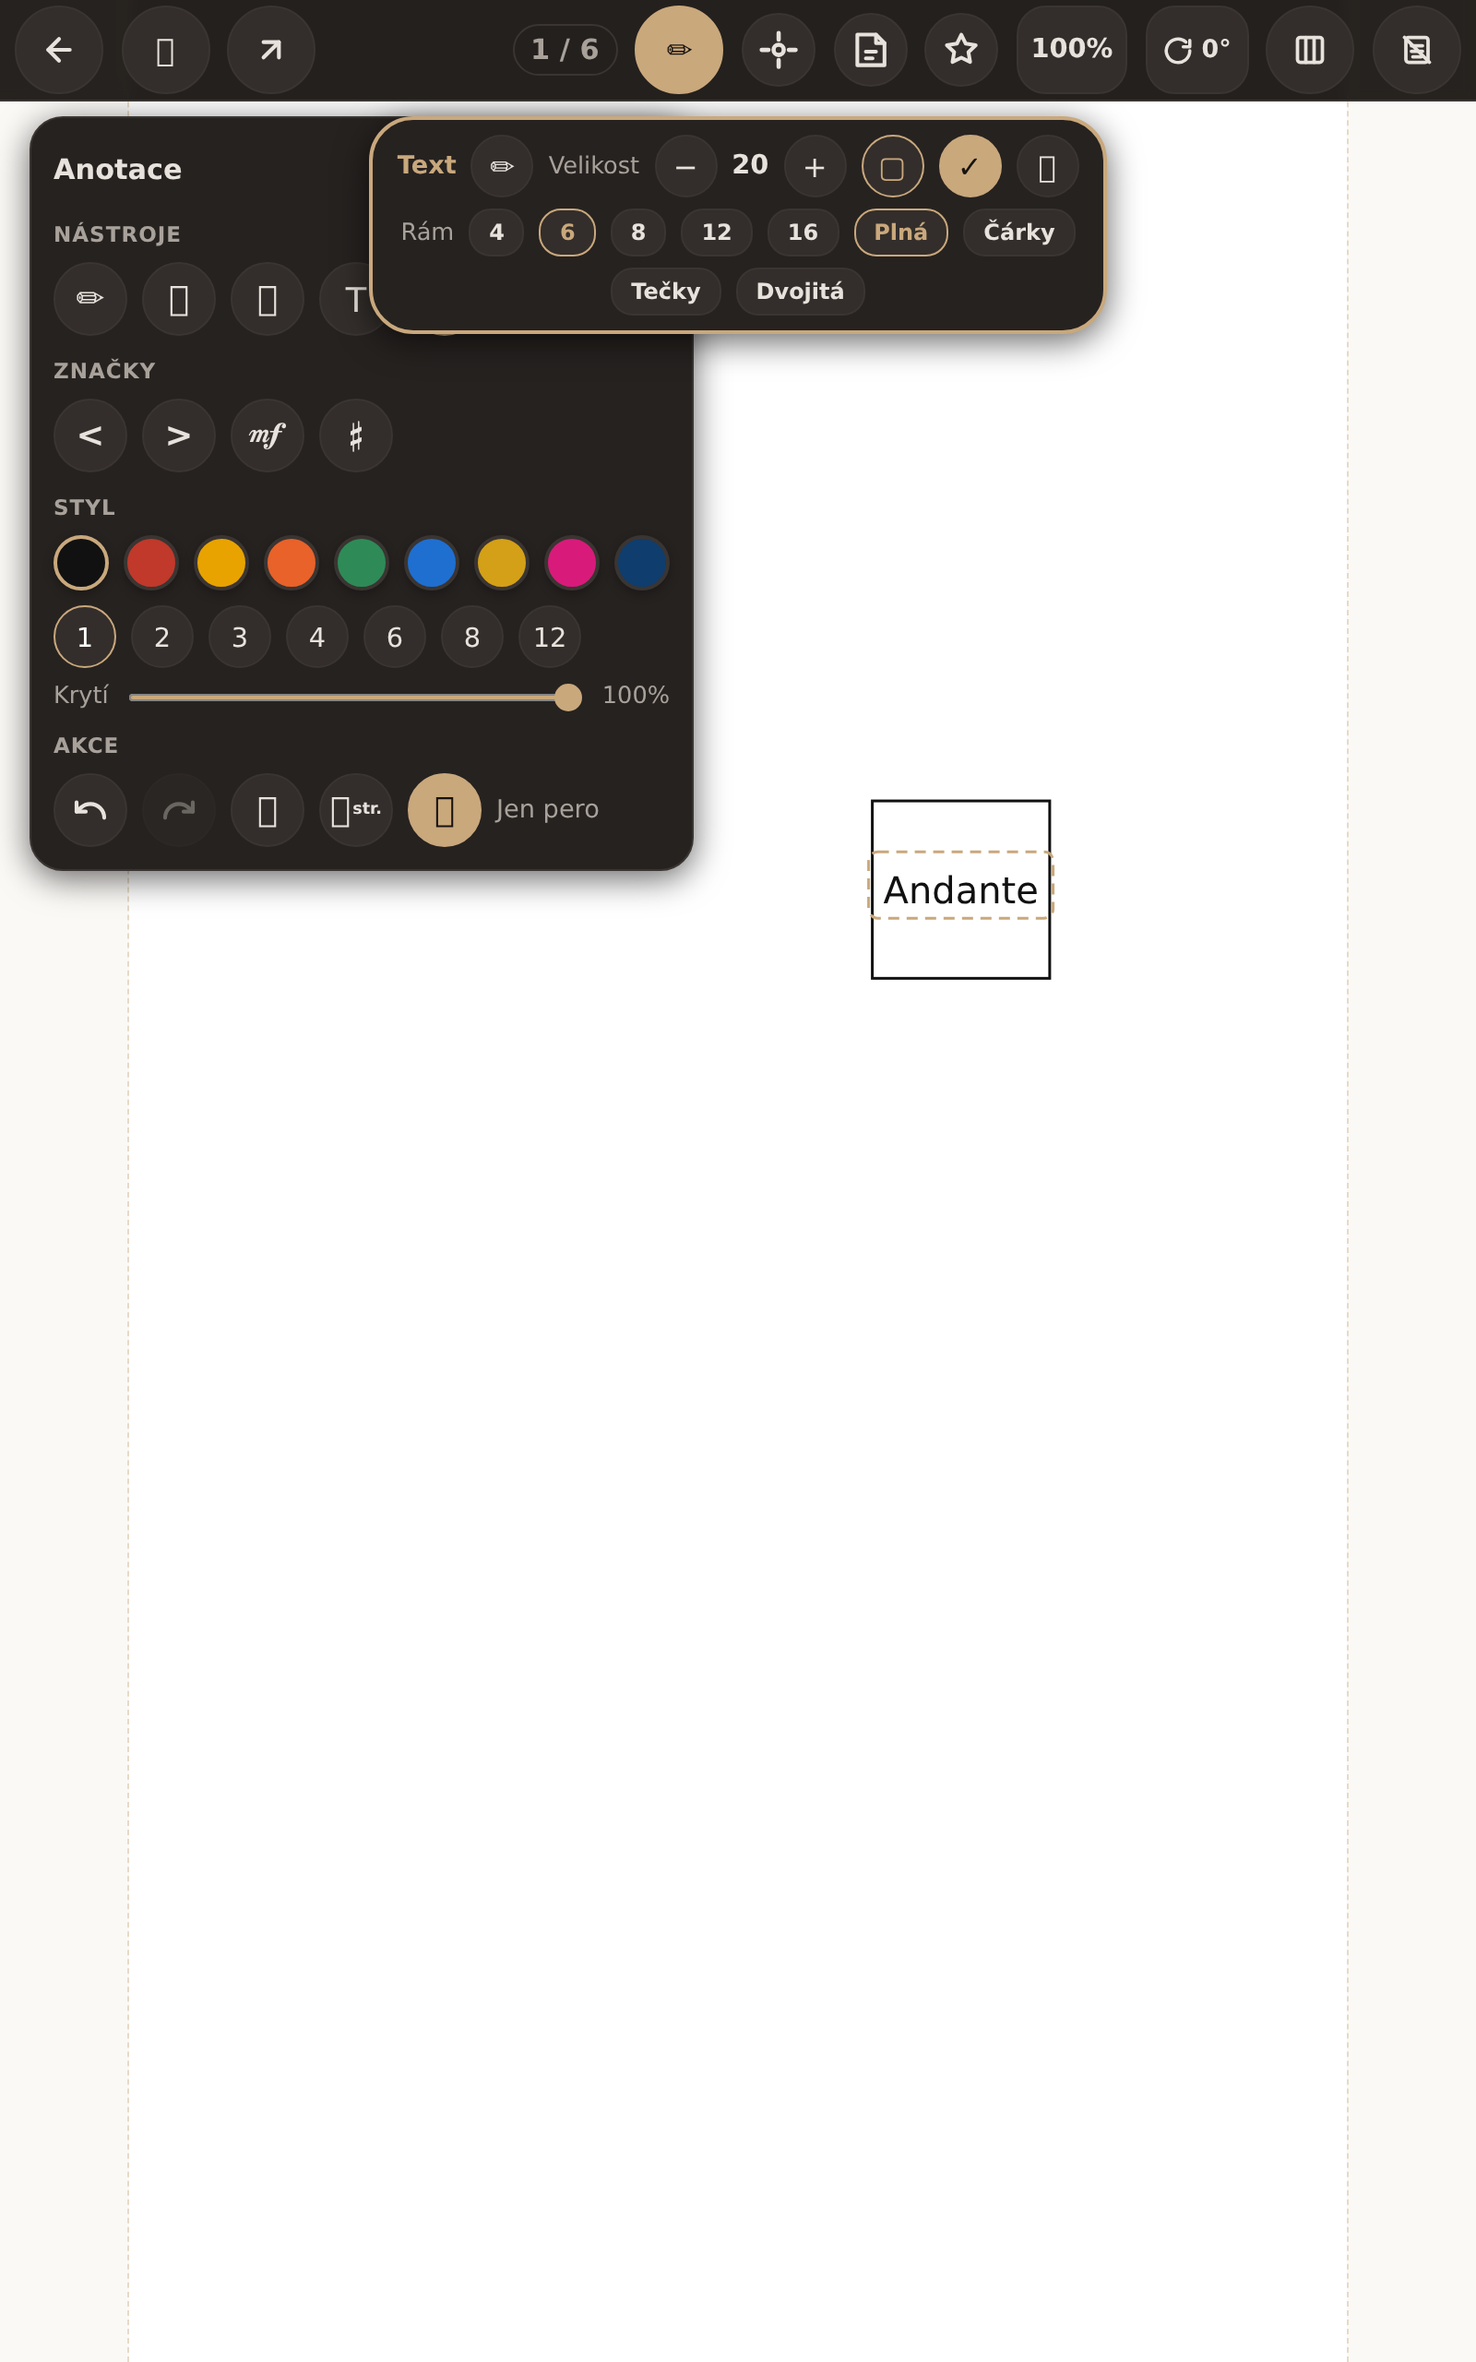
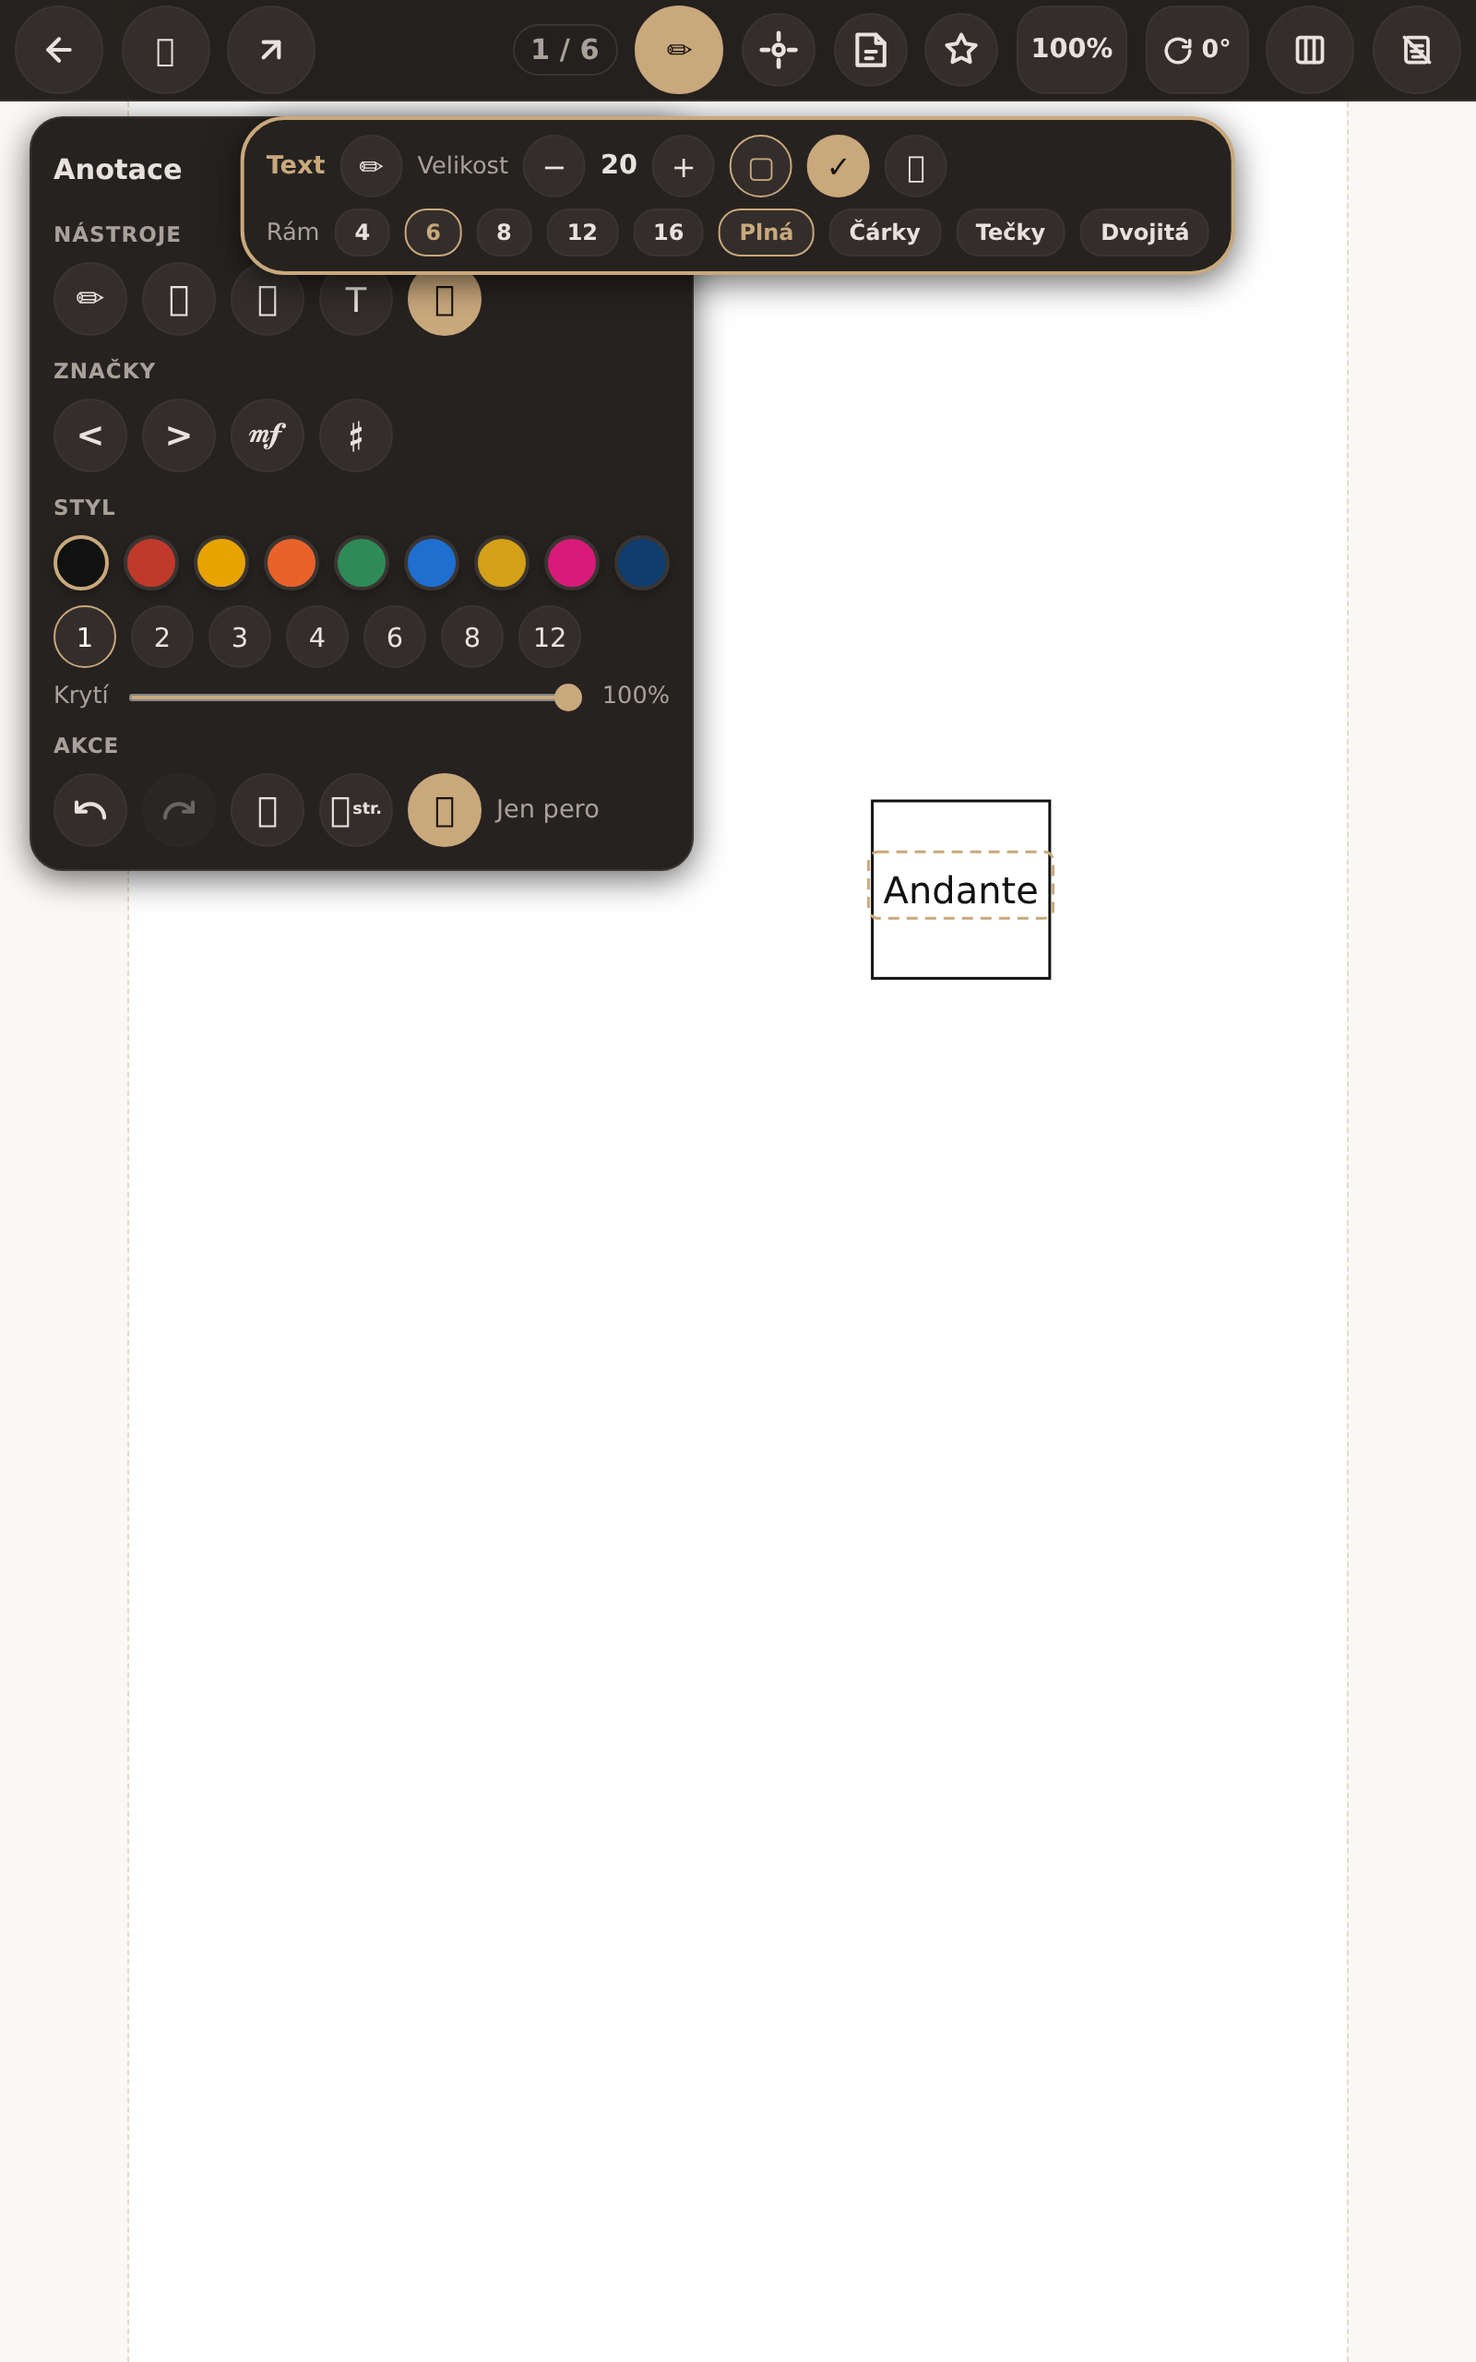
Sonda živého webu: lišta úprav se vejde, koš klikatelný (všech 8 kontrol PASS)
probe-live-editbar-width.py ověřuje opravu na produkci: lišta má dva řádky,
obsah se nepřelévá (535 vs 535), žádné tlačítko nepřetéká, koš na x 480..514
je uvnitř displeje a elementFromPoint na jeho středu ho trefí; bez rámečku má
lišta jeden řádek. End-to-end ťuknutí na koš prvek smaže (2 -> 1).

Diagnostické sondy k tomu: diag-editbar-overflow.py (3 displeje + dynamika),
diag-editbar-minwidth.py (sweep šířky), diag-editbar-width-why.py,
diag-editbar-css.py (CSS.getMatchedStylesForNode), shot-editbar.py (snímek).

Changed region(s): [[0.375, 0.0312, 0.875, 0.1562], [0.1562, 0.0312, 0.3438, 0.1562]]

diff --git a/scripts/probe-live-editbar-width.py b/scripts/probe-live-editbar-width.py
@@ -1,0 +1,261 @@
+#!/usr/bin/env python3
+"""Živý web: lišta úprav se MUSÍ vejít — koš uvnitř lišty i displeje (Jan, Oct 2026).
+
+Ověřuje opravu proti https://harlequin-music-reader.web.app — tedy proti build,
+který uživatel opravdu dostane. Nejdřív odregistruje starý service worker a smaže
+CacheStorage i IndexedDB, jinak prohlížeč servíruje STAROU verzi a sonda hlásí
+falešný FAIL (to je u PWA ta hlavní past).
+
+Měří to, co Jan viděl jako „koš utíká mimo lištu“:
+  - počet řádků lišty (musí být 2: hlavní + řádek rámu),
+  - `scrollWidth` vs `clientWidth` lišty (obsah se nesmí přelévat),
+  - každé dítě proti vnitřku lišty a proti displeji,
+  - u 🗑 `elementFromPoint(jeho střed)` → musí trefit koš (jinak nejde stisknout).
+
+    bash scripts/run-probe-fresh.sh scripts/probe-live-editbar-width.py
+"""
+import asyncio
+import importlib.util
+import json
+import os
+
+LIVE = os.environ.get("NOTY_TARGET", "https://harlequin-music-reader.web.app/")
+CDP = os.environ.get("NOTY_CDP", "http://127.0.0.1:9226")
+
+
+def _load():
+    p = os.path.expanduser("~/noty-app/cdp-e2e-harness.py")
+    s = importlib.util.spec_from_file_location("h", p)
+    m = importlib.util.module_from_spec(s)
+    s.loader.exec_module(m)
+    return m
+
+
+_m = _load()
+_m.CDP_HTTP = CDP
+Harness, Check = _m.Harness, _m.Check
+
+MEASURE = """(() => {
+  const bar = document.querySelector('.edit-bar');
+  if (!bar) return JSON.stringify({bar: false});
+  const vw = innerWidth;
+  const r = bar.getBoundingClientRect();
+  const cs = getComputedStyle(bar);
+  const inner = {
+    left: r.left + parseFloat(cs.paddingLeft) + parseFloat(cs.borderLeftWidth),
+    right: r.right - parseFloat(cs.paddingRight) - parseFloat(cs.borderRightWidth),
+  };
+  const kids = [...bar.querySelectorAll('.eb-row > *')].map(el => {
+    const q = el.getBoundingClientRect();
+    return {label: ((el.textContent || '').trim() || el.title || '').slice(0, 14),
+            right: Math.round(q.right), left: Math.round(q.left),
+            overBar: q.right > inner.right + 0.6 || q.left < inner.left - 0.6,
+            overScreen: q.right > vw || q.left < 0};
+  });
+  const trash = bar.querySelector(".eb-btn[title='Smazat']");
+  const t = trash.getBoundingClientRect();
+  const hit = document.elementFromPoint(t.left + t.width / 2, t.top + t.height / 2);
+  return JSON.stringify({
+    bar: true, vw, rows: bar.querySelectorAll('.eb-row').length,
+    barW: Math.round(r.width), scrollW: bar.scrollWidth, clientW: bar.clientWidth,
+    overflowing: bar.scrollWidth > bar.clientWidth + 1,
+    kids, nKids: kids.length,
+    trashRight: Math.round(t.right), trashLeft: Math.round(t.left),
+    trashOnScreen: t.right <= vw && t.left >= 0,
+    trashClickable: !!(hit && hit.closest && hit.closest(".eb-btn[title='Smazat']") === trash),
+  });
+})()"""
+
+
+async def tap_el(h, sel, hold=60):
+    pt = await h.ev("""(() => {
+      const sel = %s; const el = document.querySelector(sel); if (!el) return null;
+      const r = el.getBoundingClientRect();
+      for (let y = Math.floor(r.top)+1; y <= Math.ceil(r.bottom)-1; y += 2)
+        for (let x = Math.floor(r.left)+1; x <= Math.ceil(r.right)-1; x += 2) {
+          const hit = document.elementFromPoint(x, y);
+          if (hit && (hit === el || (hit.closest && hit.closest(sel) === el))) return [x+0.5, y+0.5];
+        }
+      return null; })()""" % json.dumps(sel))
+    if not pt:
+        return False
+    await h.touch("touchStart", [(pt[0], pt[1], 12)])
+    await asyncio.sleep(hold / 1000)
+    await h.touch("touchEnd", [])
+    await asyncio.sleep(0.45)
+    return True
+
+
+async def tap_text(h, sel, label):
+    pt = await h.ev("""(() => {
+      const el = [...document.querySelectorAll(%s)].find(b => (b.textContent||'').trim() === %s);
+      if (!el) return null;
+      const r = el.getBoundingClientRect();
+      for (let y = Math.floor(r.top)+1; y <= Math.ceil(r.bottom)-1; y += 2)
+        for (let x = Math.floor(r.left)+1; x <= Math.ceil(r.right)-1; x += 2)
+          if (document.elementFromPoint(x, y) === el) return [x+0.5, y+0.5];
+      return null; })()""" % (json.dumps(sel), json.dumps(label)))
+    if not pt:
+        return False
+    await h.touch("touchStart", [(pt[0], pt[1], 12)])
+    await asyncio.sleep(0.06)
+    await h.touch("touchEnd", [])
+    await asyncio.sleep(0.45)
+    return True
+
+
+COLLAPSE = ".ap-collapse"
+
+
+async def panel(h, want):
+    if await h.ev("!!document.querySelector(%s[title=%s])" % (json.dumps(COLLAPSE), json.dumps(want))):
+        await tap_el(h, COLLAPSE)
+
+
+async def free_xy(h):
+    p = await h.ev("""(() => {
+      const svg = document.querySelector('.annot-layer'); if (!svg) return null;
+      const v = svg.getBoundingClientRect();
+      const boxes = [...svg.querySelectorAll('g > text, g > path, g > rect, g > line')].map(e=>e.getBoundingClientRect());
+      const near = (x,y) => boxes.some(r => r.width>0 && x>r.left-34 && x<r.right+34 && y>r.top-34 && y<r.bottom+34);
+      for (const fy of [0.30,0.38,0.46,0.54,0.62]) for (const fx of [0.60,0.52,0.44,0.36,0.68,0.28]) {
+        const x = v.left + v.width*fx, y = v.top + v.height*fy;
+        if (document.elementFromPoint(x,y) === svg && !near(x,y)) return {x,y}; }
+      return null; })()""")
+    return (p["x"], p["y"]) if p else None
+
+
+async def insert_text(h, txt, border):
+    """Vloží text a VRÁTÍ bod, na kterém leží — tím se pak vybírá rukou.
+    (Nové volání `free_xy` po vložení by vrátilo PRÁZDNÉ místo, klepnutí by
+    text minulo a lišta úprav by se vůbec neotevřela.)"""
+    xy = await free_xy(h)
+    if not xy:
+        return None
+    await panel(h, "Rozbalit")
+    await h.ev("(() => { const b=[...document.querySelectorAll('.ap-tool')].find(x=>(x.title||'').startsWith('Text')); if(b) b.click(); })()")
+    await asyncio.sleep(0.35)
+    await panel(h, "Sbalit")
+    await h.pen_tap(xy[0], xy[1])
+    await asyncio.sleep(0.9)
+    await h.set_value(".ti-input", txt)
+    on = await h.ev("!!document.querySelector('.ti-toggle.on')")
+    if border and not on:
+        await tap_el(h, ".ti-toggle")
+    if not border and on:
+        await tap_el(h, ".ti-toggle")
+    await asyncio.sleep(0.3)
+    await tap_el(h, ".jp-btn.primary")
+    await asyncio.sleep(1.3)
+    return xy
+
+
+async def select_hand(h, xy):
+    await panel(h, "Rozbalit")
+    await h.ev("(() => { const b=[...document.querySelectorAll('.ap-tool')].find(x=>(x.title||'').startsWith('Upravit')); if(b) b.click(); })()")
+    await asyncio.sleep(0.35)
+    await panel(h, "Sbalit")
+    await h.pen_tap(xy[0], xy[1])
+    await asyncio.sleep(0.9)
+
+
+async def main():
+    ok = Check()
+    async with Harness(LIVE) as h:
+        await h.cdp("Page.navigate", {"url": LIVE})
+        await h.wait_for("document.readyState === 'complete'", label="live load")
+        await h.ev("""(async () => { if (navigator.serviceWorker) {
+          const rs = await navigator.serviceWorker.getRegistrations();
+          for (const r of rs) await r.unregister(); }
+          if (window.caches) { const ks = await caches.keys(); for (const k of ks) await caches.delete(k); }
+          return true; })()""", await_promise=True)
+        await asyncio.sleep(0.5)
+        await h.open()
+        await h.open_song(pdf=_m.make_pdf(6))
+        await h.set_tablet(800, 1280, 2)
+        await h.annot_toggle()
+        await asyncio.sleep(0.4)
+
+        # --- A) text s rámečkem = nejširší stav lišty ------------------------
+        xyA = await insert_text(h, "live sirka", True)
+        ok("A0) živý web: vložil se text s rámečkem", xyA is not None, f"bod={xyA}")
+        await select_hand(h, xyA)
+        m = json.loads(await h.ev(MEASURE))
+        if not m.get("bar"):
+            ok("A1) živý web: lišta úprav se otevřela", False, "lišta v DOM není (výběr rukou minul?)")
+            return ok.report()
+        print("   [A] " + json.dumps({k: m[k] for k in
+              ("vw", "rows", "barW", "scrollW", "clientW", "nKids", "trashLeft",
+               "trashRight", "trashOnScreen", "trashClickable")}, ensure_ascii=False))
+        for k in m["kids"]:
+            print(f"      {k['label']:16} x={k['left']:5}..{k['right']:5}"
+                  + ("  PŘES LIŠTU" if k["overBar"] else "")
+                  + (" / MIMO DISPLEJ" if k["overScreen"] else ""))
+        ok("A1) živý web: lišta má DVA řádky (hlavní + řádek rámu)",
+           m["bar"] and m["rows"] == 2, f"řádků={m.get('rows')}")
+        ok("A2) živý web: obsah lišty se NEpřelévá (scrollWidth ≤ clientWidth)",
+           m["bar"] and not m["overflowing"], f"{m.get('scrollW')} vs {m.get('clientW')}")
+        ok("A3) živý web: žádné tlačítko nepřetéká vnitřek lišty",
+           m["bar"] and not any(k["overBar"] for k in m["kids"]),
+           "; ".join(f"{k['label']}→{k['right']}" for k in m["kids"] if k["overBar"]) or "-")
+        ok("A4) živý web: 🗑 je uvnitř displeje a KLIKATELNÝ (elementFromPoint)",
+           bool(m["bar"]) and m["trashOnScreen"] and m["trashClickable"],
+           json.dumps({"koš": [m.get("trashLeft"), m.get("trashRight")],
+                       "naDispleji": m.get("trashOnScreen"),
+                       "klikatelny": m.get("trashClickable"), "vw": m.get("vw")}, ensure_ascii=False))
+
+        # --- B) text BEZ rámečku (nejužší stav) ------------------------------
+        xyB = await insert_text(h, "live bez ramu", False)
+        ok("B0) živý web: vložil se text bez rámečku", xyB is not None, f"bod={xyB}")
+        await select_hand(h, xyB)
+        m2 = json.loads(await h.ev(MEASURE))
+        if not m2.get("bar"):
+            ok("B1) živý web: lišta úprav se otevřela (bez rámečku)", False, "lišta v DOM není")
+            return ok.report()
+        print("   [B] " + json.dumps({k: m2[k] for k in
+              ("vw", "rows", "barW", "scrollW", "clientW", "nKids", "trashRight",
+               "trashClickable")}, ensure_ascii=False))
+        ok("B1) živý web: bez rámečku má lišta JEDEN řádek a vše se vejde",
+           m2["bar"] and m2["rows"] == 1 and not m2["overflowing"],
+           f"řádků={m2.get('rows')} {m2.get('scrollW')} vs {m2.get('clientW')}")
+        ok("B2) živý web: 🗑 klikatelný i bez rámečku",
+           bool(m2["bar"]) and m2["trashOnScreen"] and m2["trashClickable"],
+           json.dumps({"klikatelny": m2.get("trashClickable")}, ensure_ascii=False))
+
+        # --- C) koš na živém webu opravdu maže (end-to-end) ------------------
+        n0 = await h.ev("""(async () => {
+          const dbs = await indexedDB.databases();
+          const n = (dbs.map(d=>d.name)||[]).find(x=>/noty|music|reader/i.test(x)); if (!n) return -1;
+          const db = await new Promise(res => { const r = indexedDB.open(n);
+            r.onsuccess=()=>res(r.result); r.onerror=()=>res(null); });
+          if (!db) return -1;
+          let c = 0;
+          for (const s of [...db.objectStoreNames]) {
+            const rows = await new Promise(res => {
+              const q = db.transaction(s,'readonly').objectStore(s).getAll();
+              q.onsuccess=()=>res(q.result); q.onerror=()=>res(null); });
+            for (const row of (rows||[])) c += ((row&&row.items)||[]).length;
+          }
+          db.close(); return c; })()""", await_promise=True)
+        await tap_el(h, ".edit-bar .eb-btn[title='Smazat']")
+        await asyncio.sleep(1.0)
+        n1 = await h.ev("""(async () => {
+          const dbs = await indexedDB.databases();
+          const n = (dbs.map(d=>d.name)||[]).find(x=>/noty|music|reader/i.test(x)); if (!n) return -1;
+          const db = await new Promise(res => { const r = indexedDB.open(n);
+            r.onsuccess=()=>res(r.result); r.onerror=()=>res(null); });
+          if (!db) return -1;
+          let c = 0;
+          for (const s of [...db.objectStoreNames]) {
+            const rows = await new Promise(res => {
+              const q = db.transaction(s,'readonly').objectStore(s).getAll();
+              q.onsuccess=()=>res(q.result); q.onerror=()=>res(null); });
+            for (const row of (rows||[])) c += ((row&&row.items)||[]).length;
+          }
+          db.close(); return c; })()""", await_promise=True)
+        ok("C1) živý web: ťuknutí na 🗑 prvek SMAŽE (end-to-end)", n1 == n0 - 1, f"{n0} -> {n1}")
+    return ok.report()
+
+
+if __name__ == "__main__":
+    raise SystemExit(asyncio.run(main()))
